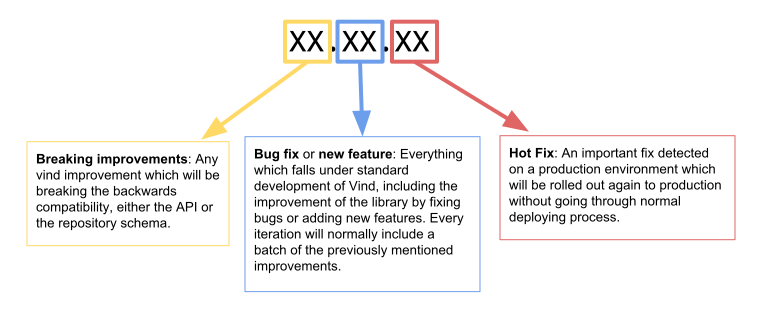
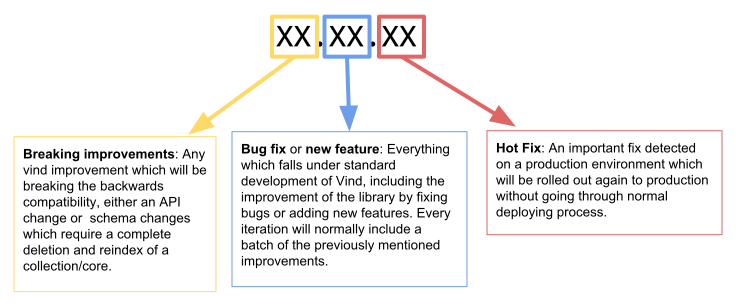
#68: improved description

Changed region(s): [[0.0312, 0.0294, 1.0, 0.9412], [0.0312, 0.9412, 0.2812, 0.9706], [0.0, 0.4412, 0.0312, 0.4706]]

diff --git a/README.md b/README.md
@@ -32,9 +32,9 @@ The search lib is modular and currently implements the following layers:
 
 Each Vind released is labeled in the repository with a tag fitting the following schema: _vind-va.b.c_ where 
 **vind-v** just points out that this belongs to a Vind version and **a.b.c** represents the release number, also used 
-for the artifact version. Prior to **vind-v1.3.0** there was not a clear policy on versioning therefor, there was also not 
-an explanation about it. 
-From __1.3.0__ on the releases will strictly stick to the following diagram:
+for the artifact version. Prior to **vind-v1.3.0** there was not a clear policy on versioning.
+
+From __1.3.0__ the releases will strictly stick to the following diagram:
 
 ![Versioning policy](./docs/images/versioning_policy.png)
 
@@ -45,7 +45,7 @@ I.e., _vind-v1.3.0-RC1_ would be the first release candidate for version 1.2.6 w
 staging environment, will be released again after fixing as __vind-v1.3.0-RC2__. After approval, the artifact will be released   
 **vind-v1.3.0**.
 
-From **vind-v1.3.0** on, all the hot fixes would be handle in a release specific maintenance branch, menaing this that development 
+From **vind-v1.3.0**, all the hot fixes would be handle in a release specific maintenance branch, menaing this that development 
 branch would always be in an _a.b.0-SNAPSHOT_ **Vind** version.
 
 ## Roadmap
